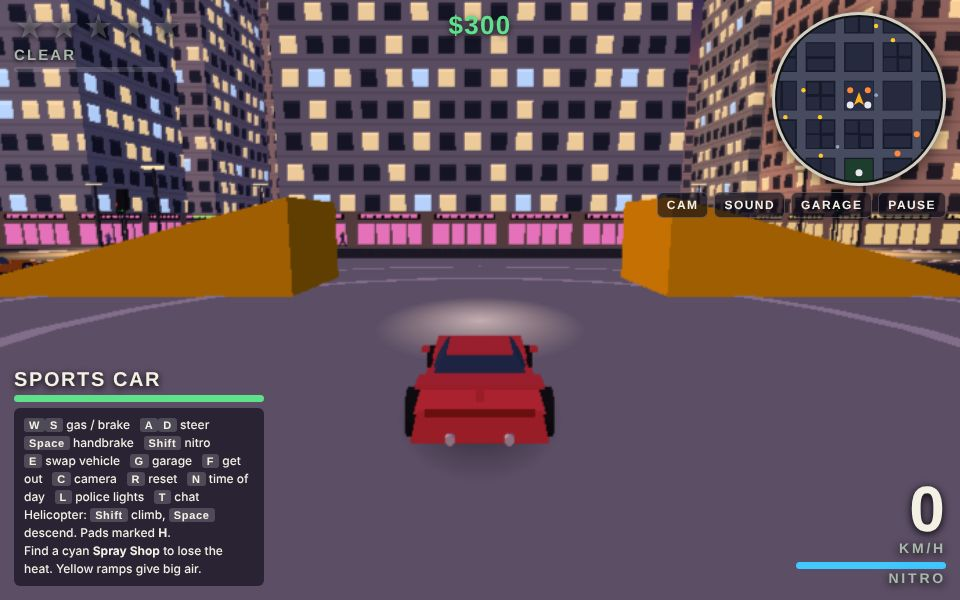
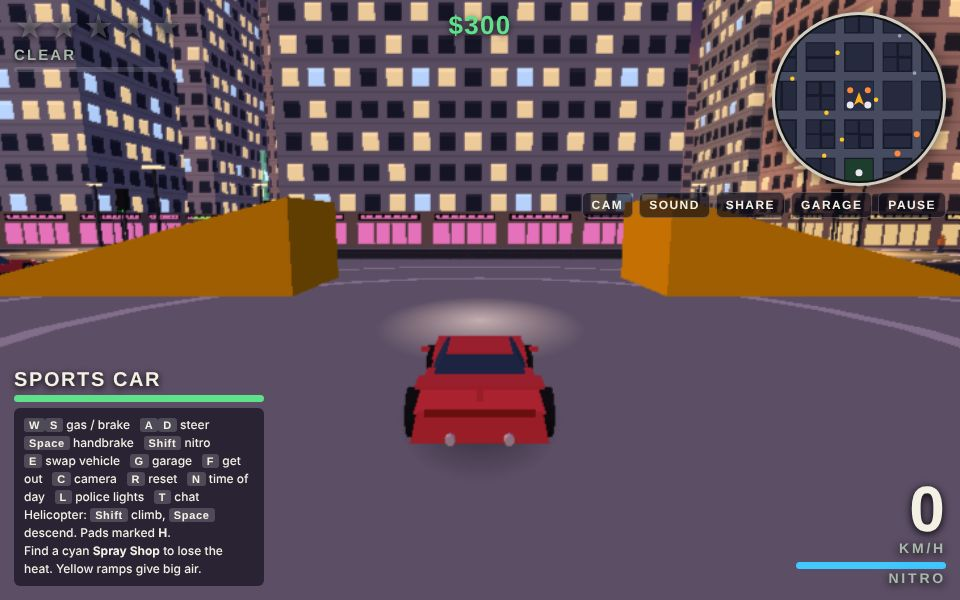
Update Getaway City to the latest artifact version
Claude-Session: https://claude.ai/code/session_01CtzJPm56py4azT3d1vtKZJ

diff --git a/getaway-city/index.html b/getaway-city/index.html
@@ -127,6 +127,10 @@ button:focus-visible{outline:3px solid var(--sodium);outline-offset:2px}
 #chatbar{left:50%;bottom:112px;transform:translateX(-50%);width:min(440px,84vw);pointer-events:auto}
 #chatin{width:100%;box-sizing:border-box;background:rgba(9,10,22,.85);border:2px solid var(--sodium);border-radius:8px;padding:10px 12px;font:500 16px var(--body);color:var(--paper);user-select:text;-webkit-user-select:text}
 #chatin:focus{outline:none}
+#share{justify-content:center;background:rgba(5,6,14,.72)}
+#shareurl{width:100%;box-sizing:border-box;margin:8px 0 4px;background:var(--sign-d);border:2px solid rgba(243,240,228,.35);border-radius:8px;padding:9px 10px;font:500 13px var(--body);color:var(--paper);user-select:text;-webkit-user-select:text}
+.inv{margin-top:8px;width:100%;background:transparent;border:2px solid rgba(243,240,228,.45);border-radius:10px;padding:9px;font:600 16px var(--display);letter-spacing:.1em;text-transform:uppercase;color:var(--paper)}
+.inv:hover{border-color:var(--paper)}
 #online{font:600 12px var(--display);letter-spacing:.14em;color:#7dff9a;text-shadow:0 1px 3px #000}
 #pname{width:100%;box-sizing:border-box;background:var(--sign-d);border:2px solid rgba(243,240,228,.35);border-radius:8px;padding:8px 10px;font:600 16px var(--display);letter-spacing:.08em;color:var(--paper);user-select:text;-webkit-user-select:text}
 #pname:focus{outline:3px solid var(--sodium);outline-offset:1px}
@@ -156,7 +160,7 @@ button:focus-visible{outline:3px solid var(--sodium);outline-offset:2px}
     <div class="tr">
       <canvas id="mini"></canvas>
       <div id="online" hidden></div>
-      <div class="btns"><button id="bCam" type="button">CAM</button><button id="bSnd" type="button">SOUND</button><button id="bChat" type="button" hidden>CHAT</button><button id="bGarage" type="button">GARAGE</button><button id="bPause" type="button">PAUSE</button></div>
+      <div class="btns"><button id="bCam" type="button">CAM</button><button id="bSnd" type="button">SOUND</button><button id="bChat" type="button" hidden>CHAT</button><button id="bShare" type="button">SHARE</button><button id="bGarage" type="button">GARAGE</button><button id="bPause" type="button">PAUSE</button></div>
     </div>
     <div class="bl">
       <div id="vname"></div>
@@ -200,6 +204,7 @@ button:focus-visible{outline:3px solid var(--sodium);outline-offset:2px}
         <button type="button" data-v="night" aria-pressed="false">Night</button>
       </div>
       <button class="go" id="go" type="button">Hit the streets</button>
+      <button class="inv" id="mShare" type="button">Invite friends to drive with you</button>
       <p class="keys"><kbd>W</kbd><kbd>A</kbd><kbd>S</kbd><kbd>D</kbd> or arrows to drive · <kbd>Space</kbd> handbrake · <kbd>Shift</kbd> nitro · <kbd>E</kbd> steal a nearby vehicle · <kbd>C</kbd> camera · <kbd>H</kbd> horn</p>
     </div>
   </div>
@@ -216,6 +221,14 @@ button:focus-visible{outline:3px solid var(--sodium);outline-offset:2px}
       <div id="gdecalrow"><div class="lab">Decals</div><div class="sw" id="gdecal"></div></div>
       <p id="ginfo"></p>
       <div class="row"><button type="button" id="gbuy" class="pri">Buy</button><button type="button" id="gdone">Done</button></div></div>
+  </div>
+
+  <div id="share" class="screen" hidden>
+    <div class="card gcard"><h2>Invite friends</h2>
+      <p>Send this link. Everyone who opens it while signed in with access can see you and chat in the same city.</p>
+      <input id="shareurl" type="text" readonly value="https://claude.ai/artifact/FbEa2f9iyty31ArsLCygNb">
+      <p id="sharenote">They need access first: use <b>Share</b> in the claude.ai toolbar above this page to add them.</p>
+      <div class="row"><button type="button" id="shareCopy" class="pri">Copy link</button><button type="button" id="shareDone">Done</button></div></div>
   </div>
 
   <div id="over" class="screen" hidden>
@@ -1050,6 +1063,16 @@ function updateGarage(){
   const ps=SKIN_BY[gSel.paint],gs=GLOW_BY[gSel.glow],ds=DECAL_BY[gSel.decal];$('ginfo').textContent=ps.name+(gs.id!=='none'?' + '+gs.name:'')+(ds.id!=='none'?' + '+ds.name:'')+(t>0?' — $'+t:' — owned');
   const b=$('gbuy');b.textContent=t>0?'Buy $'+t:'Equipped';b.disabled=t===0||G.cash<t;
 }
+function openShare(){
+  if(G.state==='play'){G.state='paused';G.inShare=true;$('pause').hidden=true;}
+  $('share').hidden=false;$('shareCopy').textContent='Copy link';
+}
+function closeShare(){$('share').hidden=true;if(G.inShare){G.inShare=false;G.state='play';last=performance.now();}}
+function copyShare(){
+  const el=$('shareurl'),url=el.value,done=()=>{$('shareCopy').textContent='Copied';},fail=()=>{el.focus();el.select();$('shareCopy').textContent='Press Ctrl+C';};
+  try{if(navigator.clipboard&&navigator.clipboard.writeText){navigator.clipboard.writeText(url).then(done,fail);return;}}catch(e){}
+  fail();
+}
 function openGarage(){
   if(G.state!=='play')return;if(me.T.walk){toast('Get in a vehicle first','warn');return;}if(G.stars>0){toast('Lose the cops first','bad');return;}
   const e=G.eq[me.kind]||{};gBackup={paint:e.paint||'stock',glow:e.glow||'none',decal:e.decal||'none'};gSel={paint:gBackup.paint,glow:gBackup.glow,decal:gBackup.decal};
@@ -1672,6 +1695,7 @@ function setKind(kind){
   G.kind=kind;me=mk(kind,null,x,z,h,'parked');me.in.hb=true;applySkin(me);
 }
 function togglePause(forcePause){
+  if(!$('share').hidden){closeShare();return;}
   if(G.inGarage){closeGarage();return;}
   if(G.state==='play'){G.state='paused';$('pause').hidden=false;}
   else if(G.state==='paused'&&!forcePause){G.state='play';$('pause').hidden=true;last=performance.now();}
@@ -1956,6 +1980,8 @@ $('bGarage').addEventListener('click',()=>{if(G.state==='play')openGarage();});$
 $('chatin').addEventListener('keydown',e=>{e.stopPropagation();if(e.key==='Enter'){e.preventDefault();closeChat(true);}else if(e.key==='Escape'){e.preventDefault();closeChat(false);}});
 $('chatin').addEventListener('keyup',e=>e.stopPropagation());$('chatin').addEventListener('blur',()=>closeChat(false));
 $('bChat').addEventListener('click',openChat);
+$('bShare').addEventListener('click',openShare);$('mShare').addEventListener('click',openShare);$('shareCopy').addEventListener('click',copyShare);$('shareDone').addEventListener('click',closeShare);
+$('shareurl').addEventListener('keydown',e=>e.stopPropagation());
 $('bCam').addEventListener('click',cycleCam);$('bSnd').addEventListener('click',toggleMute);$('bPause').addEventListener('click',()=>togglePause());
 
 loadGame();
